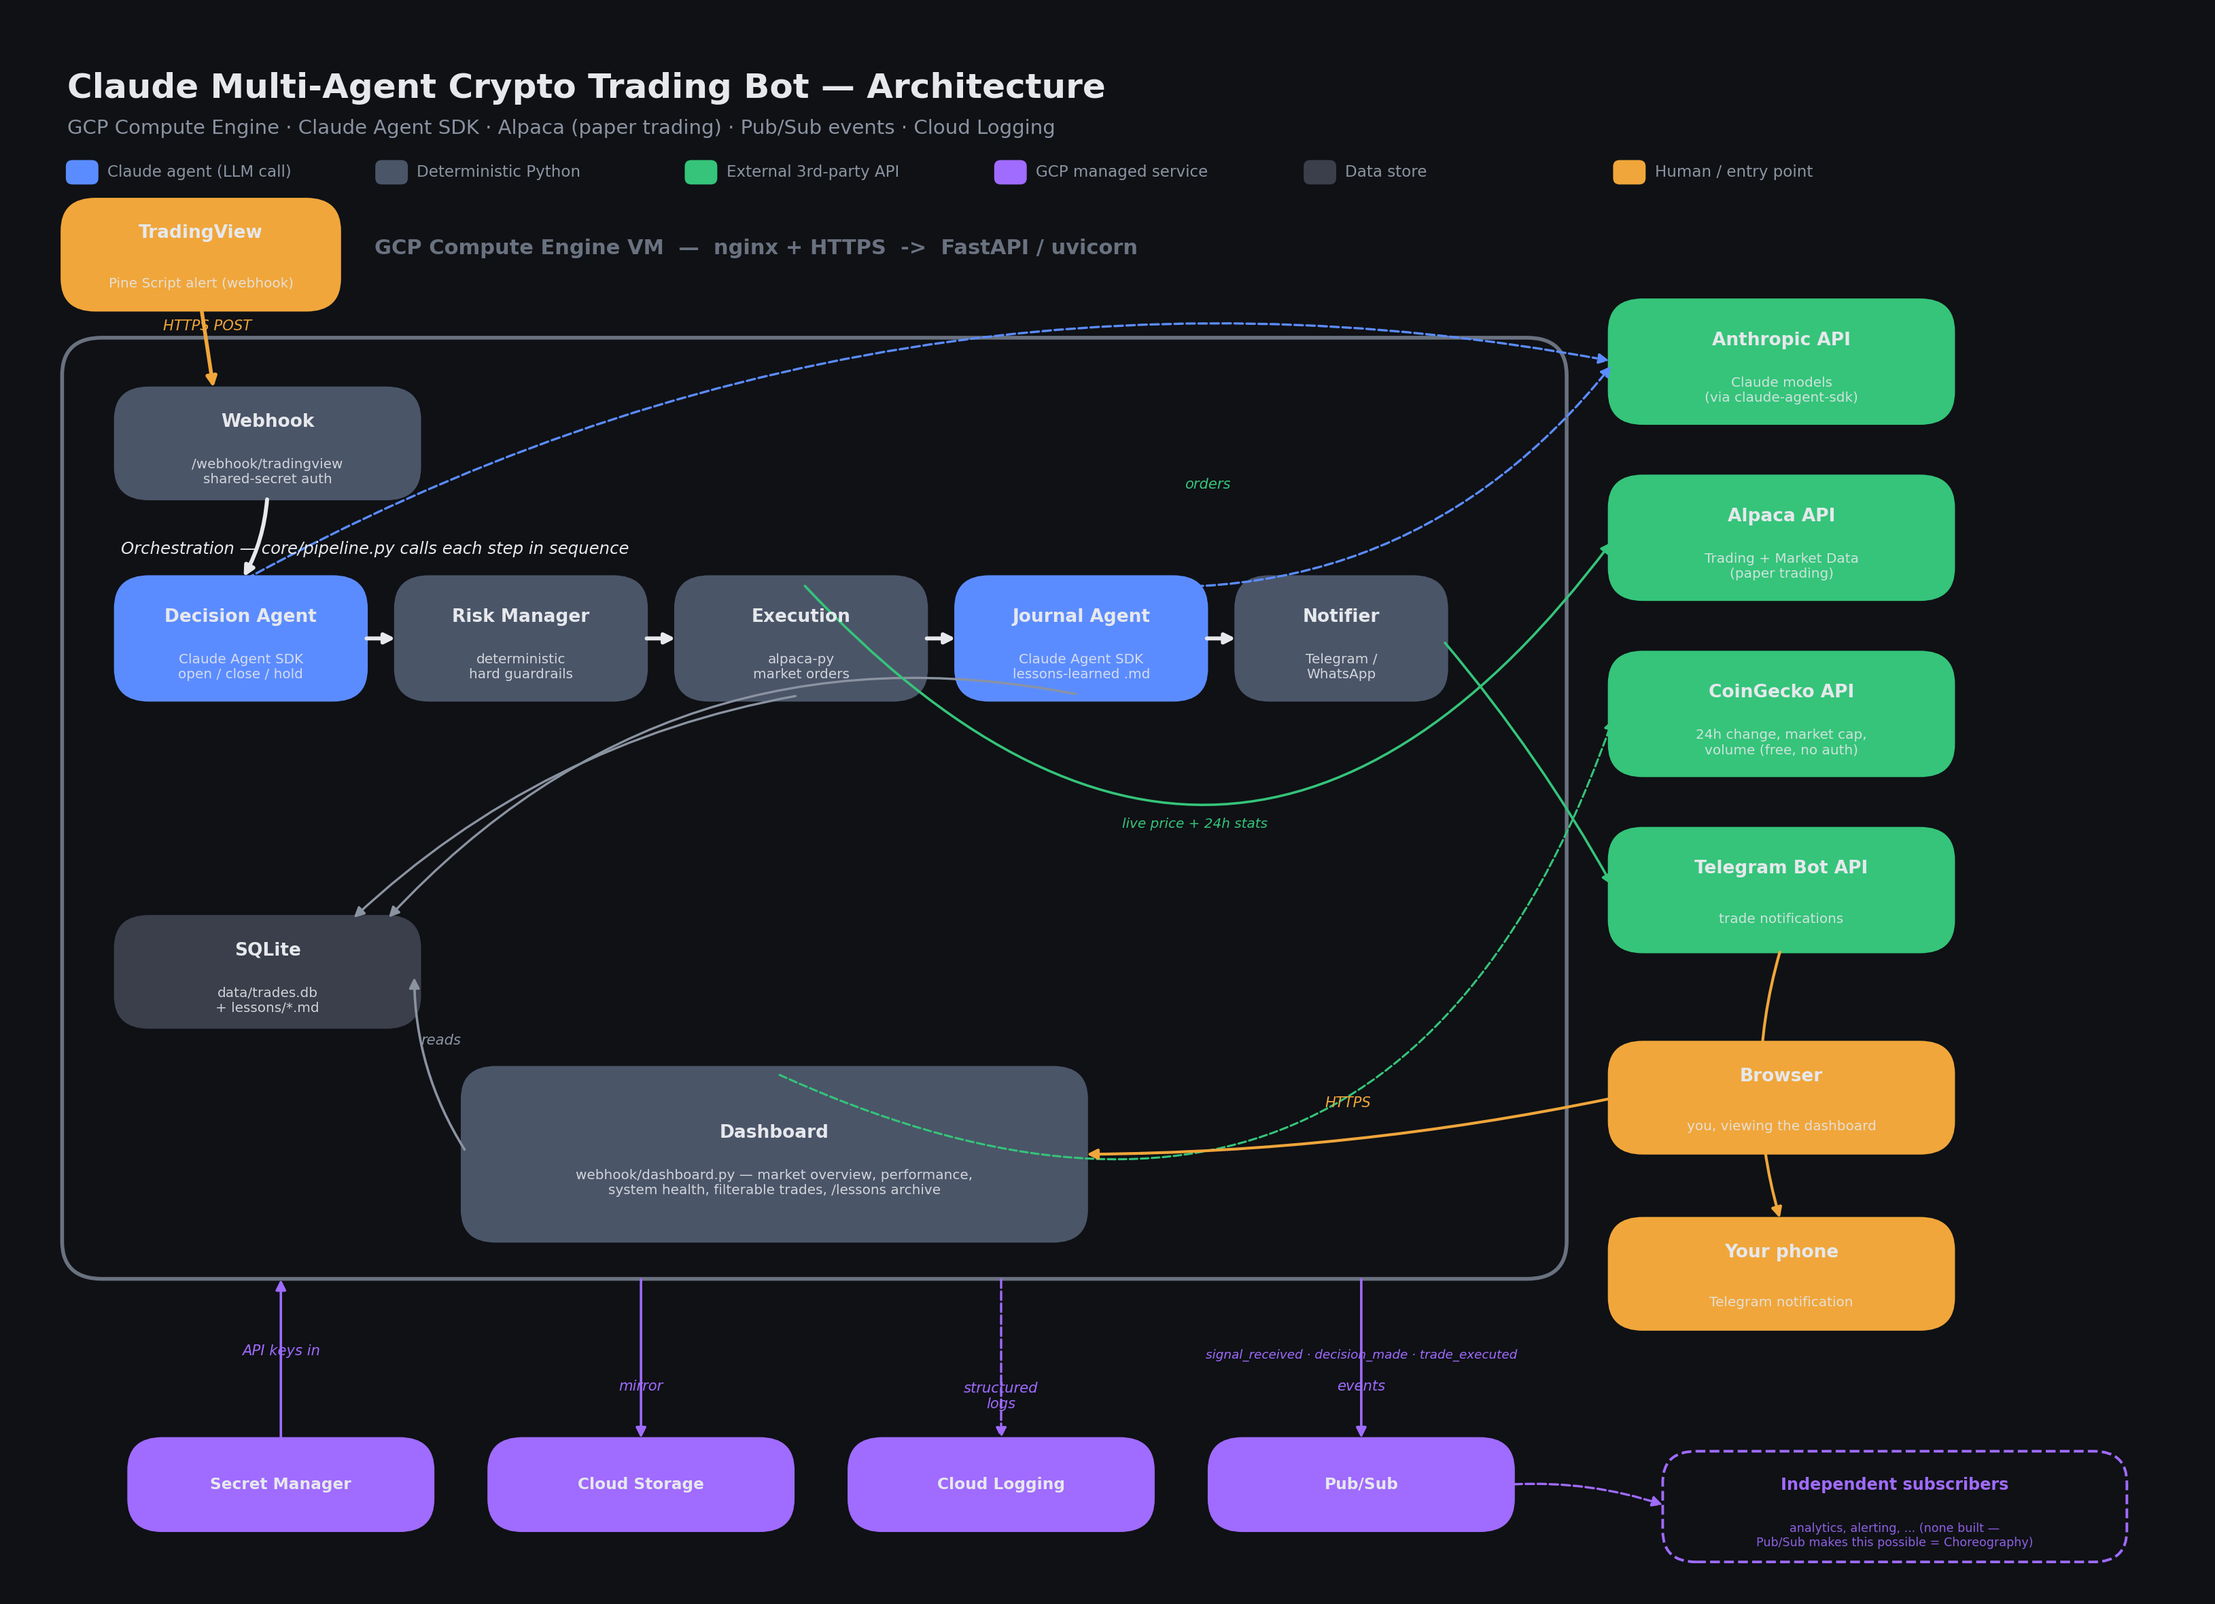
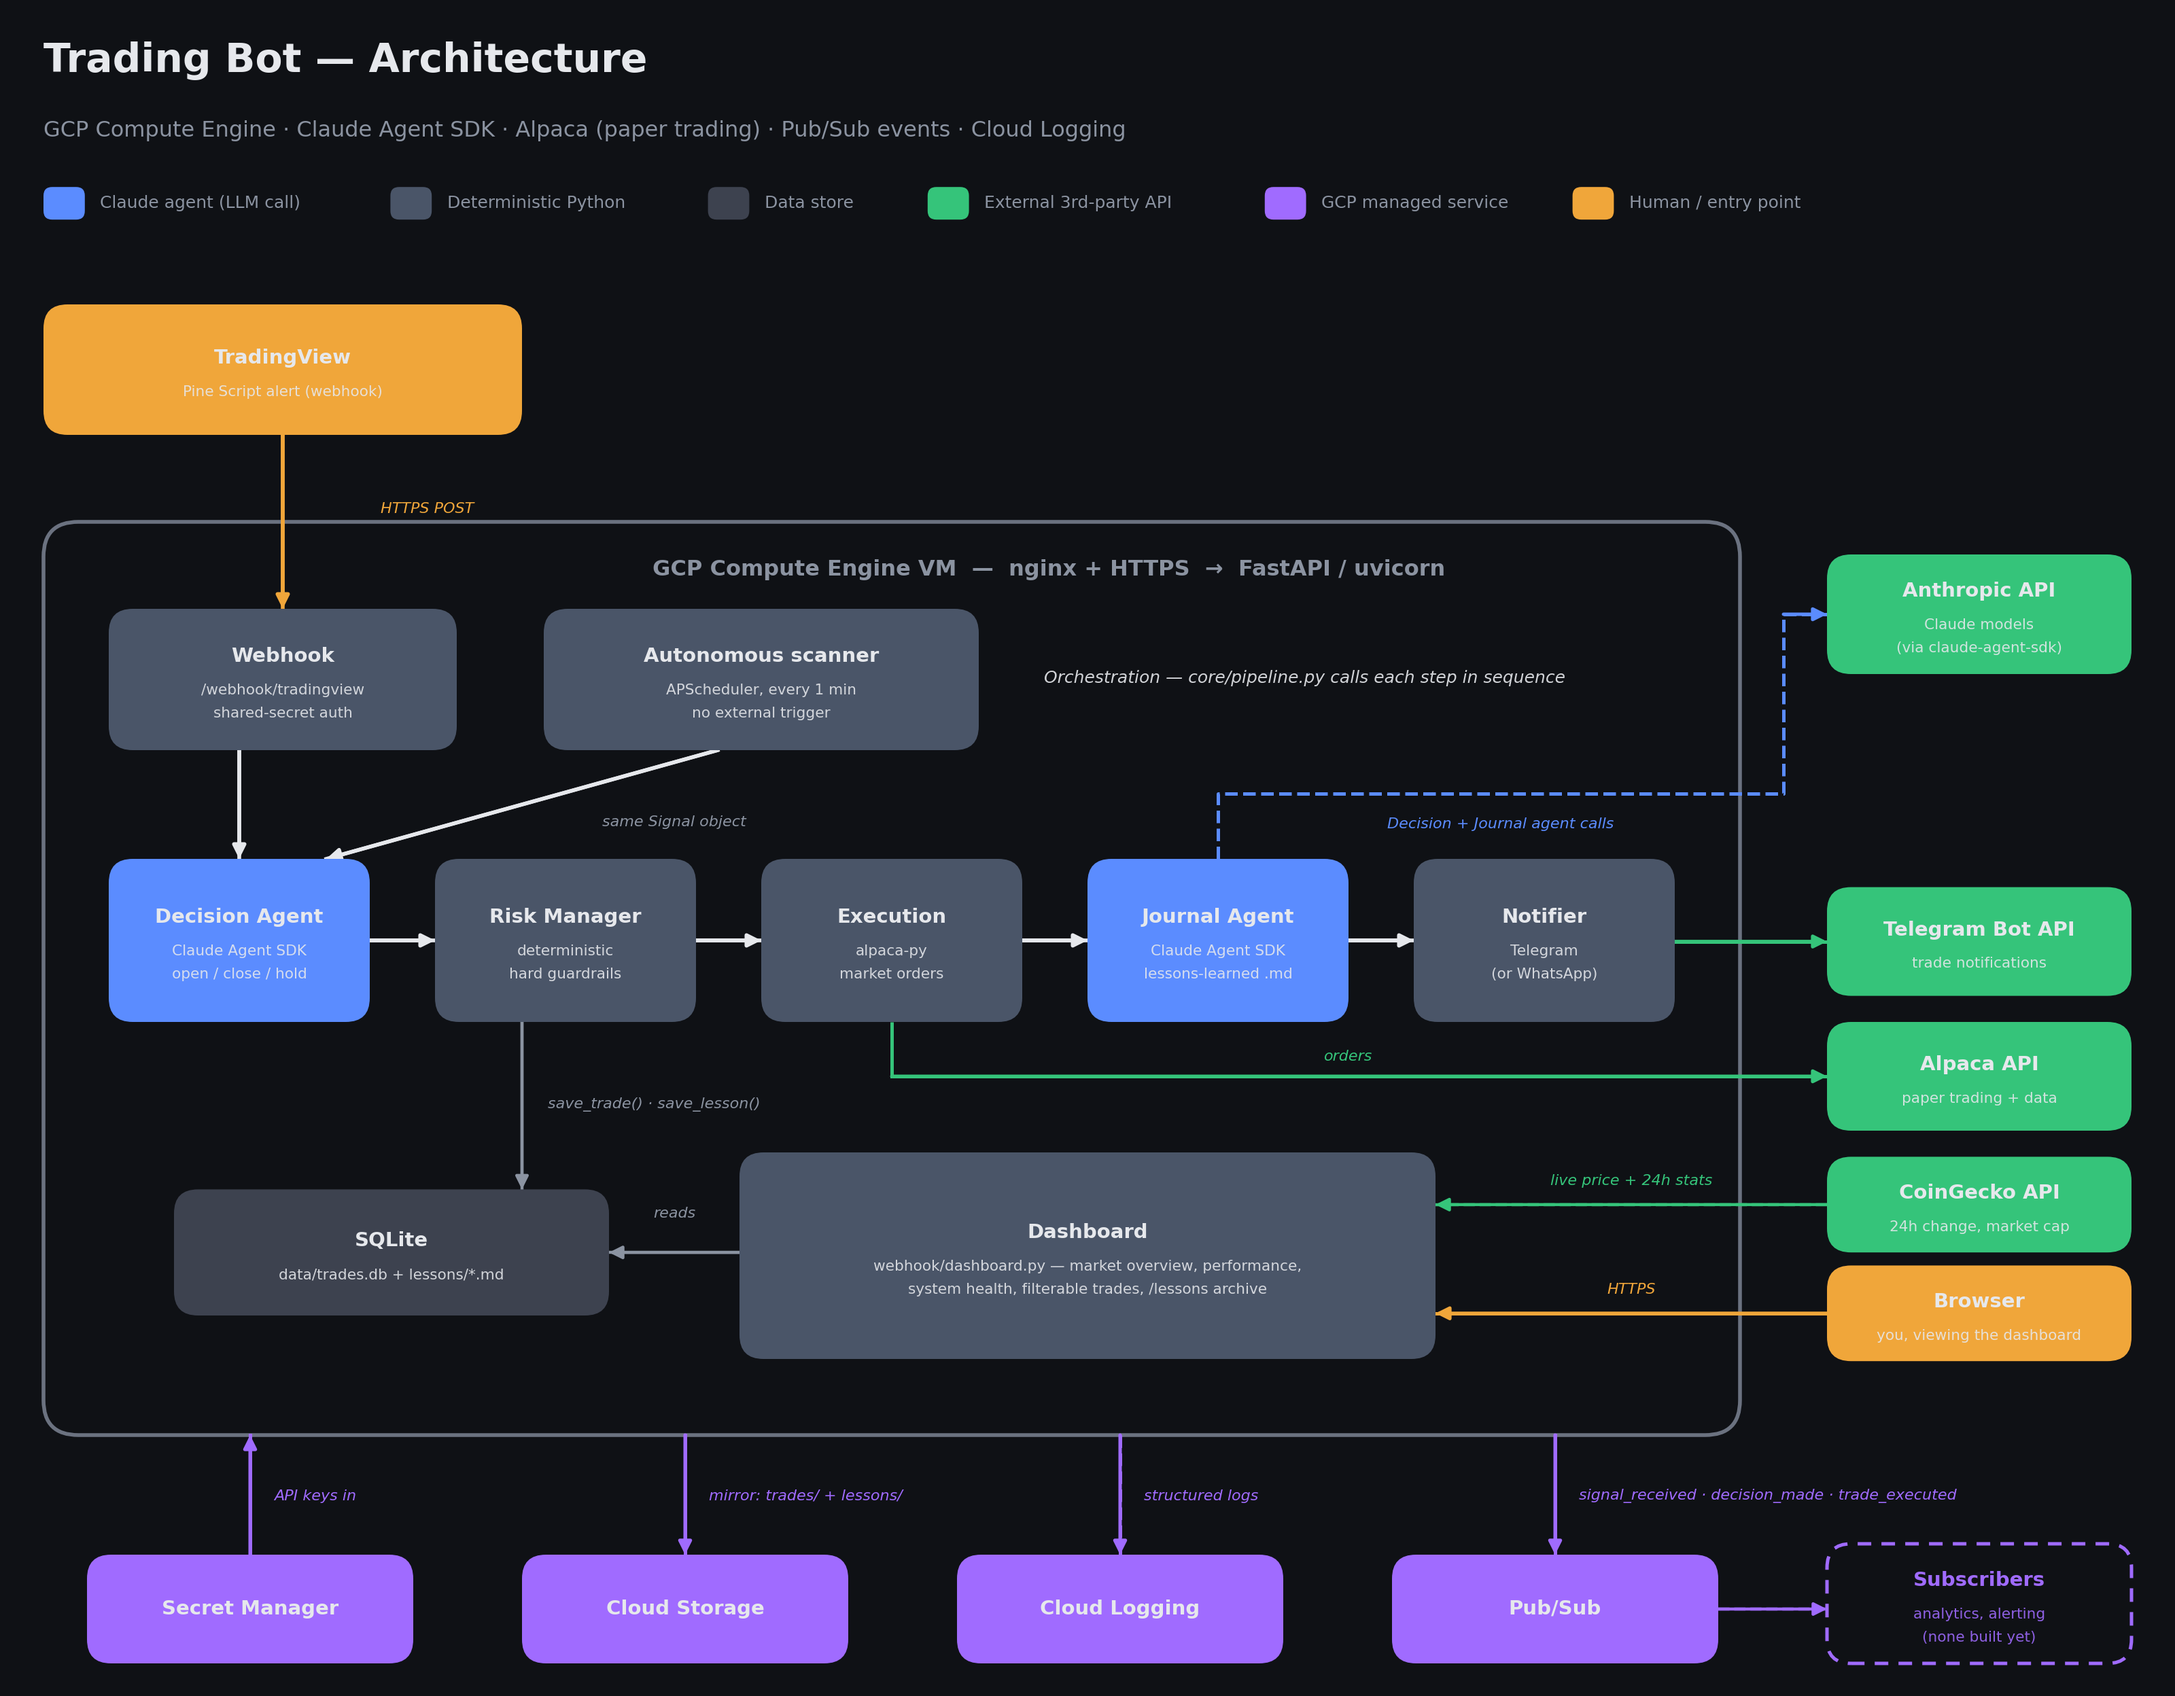
Regenerate architecture diagram and embed it in README
Rebuilt architecture.png with the Trading Bot title, orthogonal routing so no
arrow crosses a box, and the current deployment: autonomous scanner, Telegram
notifier, dashboard, and external APIs.

diff --git a/README.md b/README.md
@@ -12,6 +12,10 @@ entries.
 > strategy or financial advice. The live-trading gate has never been enabled, and
 > results from the small paper-trading sample so far are roughly flat.
 
+## Architecture
+
+![Architecture: signal sources, the Claude decision pipeline on a Compute Engine VM, external APIs, and the GCP managed services around it](architecture.png)
+
 ## How it works
 
 Two ways a signal reaches the pipeline: a TradingView alert, or the bot's own
